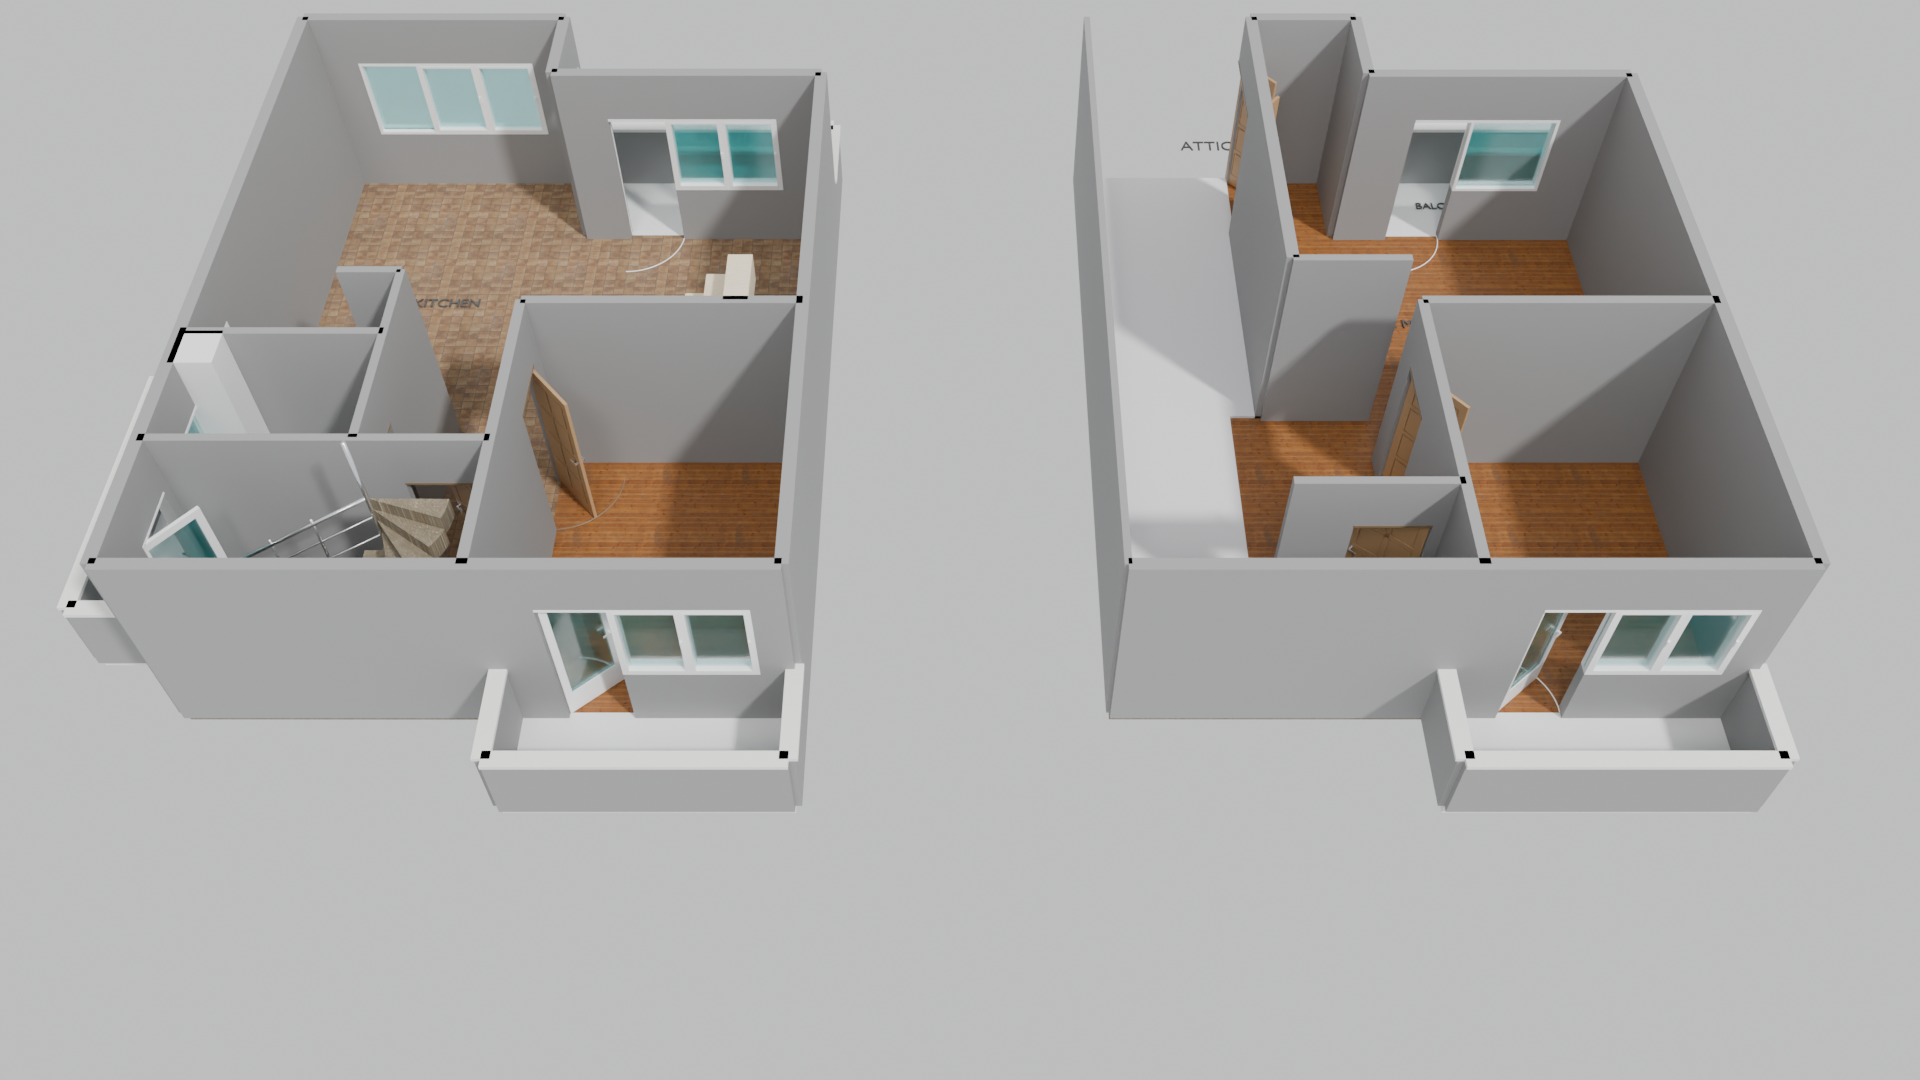
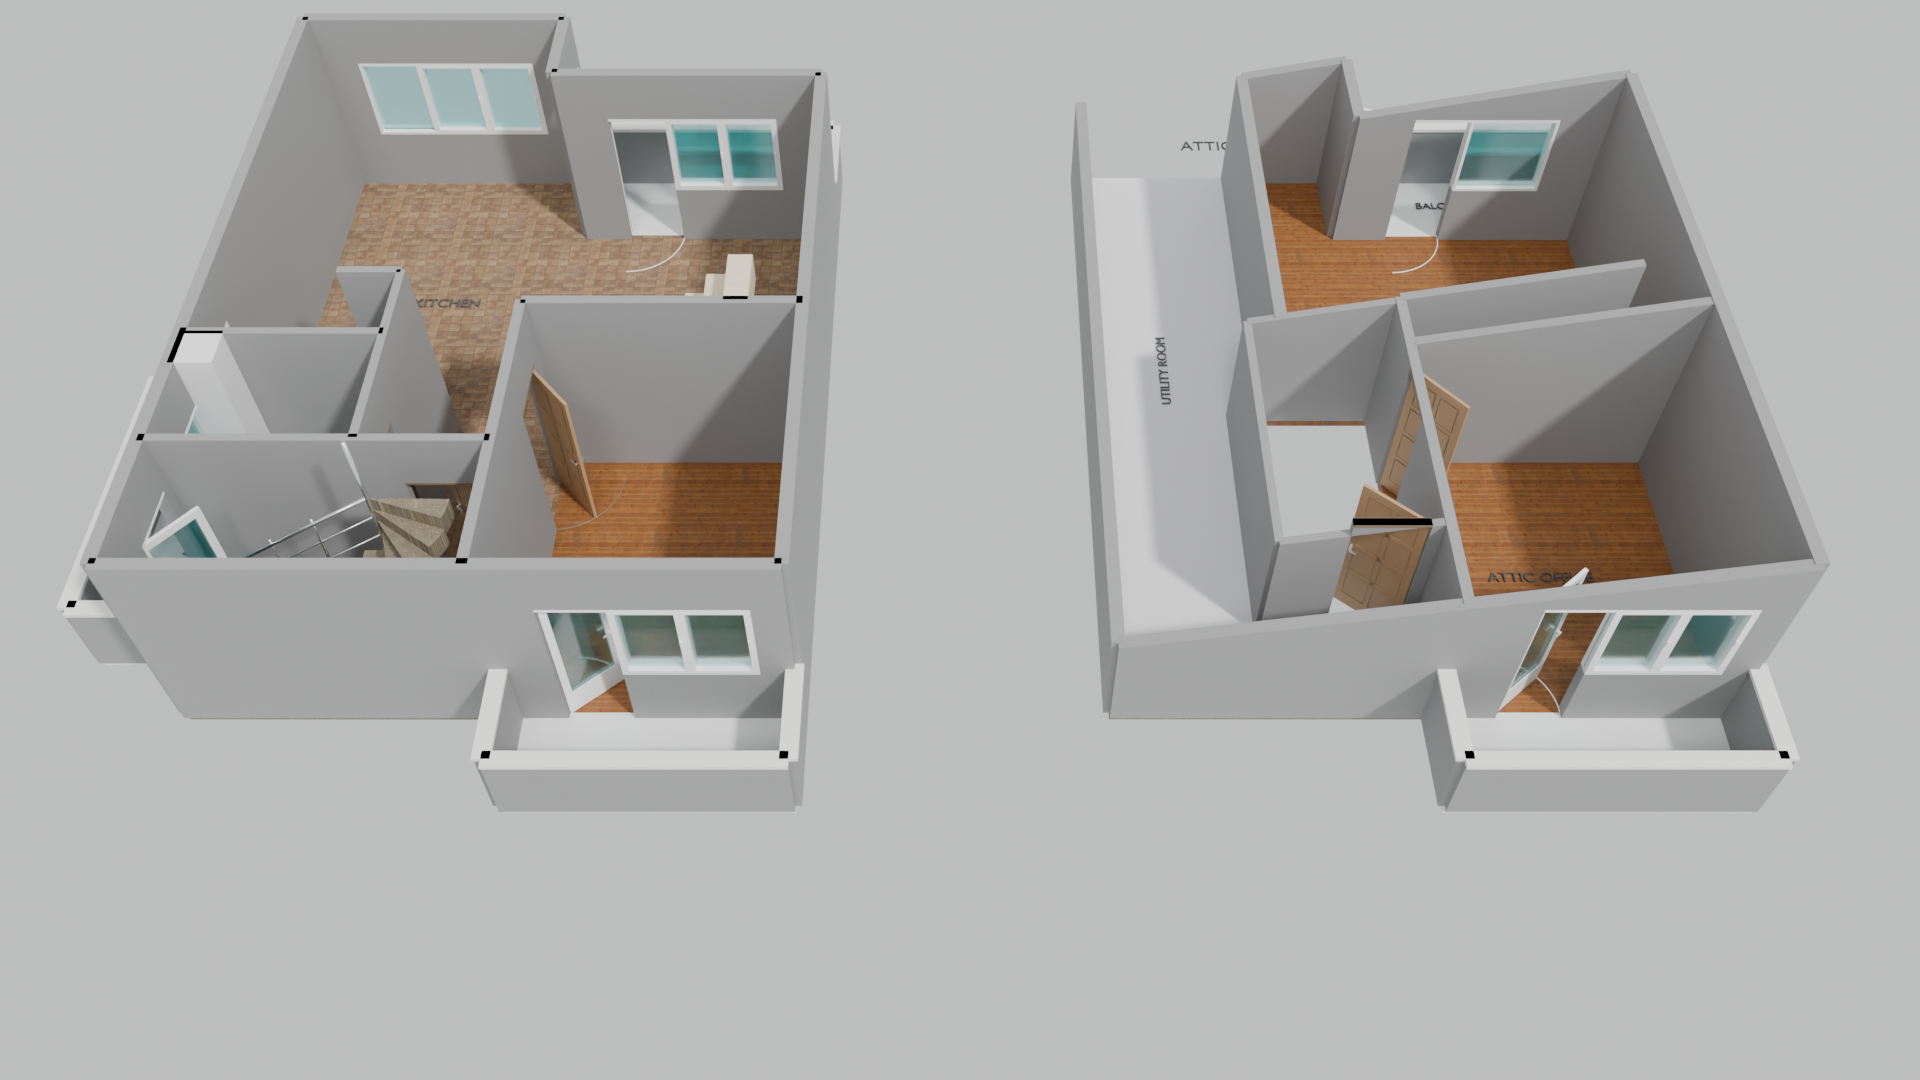
v8 markovo

Changed region(s): [[0.5625, 0.0, 0.9375, 0.6111]]

diff --git a/scripts/cad_markovo/floor4.py b/scripts/cad_markovo/floor4.py
@@ -2,9 +2,9 @@
 Floor 4 (Attic Level) Plan Definition and Architectural Specification.
 
 Finishes:
-- Attic Rooms (Bedroom, Main Room, Circulation): Parallel Parquet Light Coniferous Wood
-- Unusable Area: Cross-Hatched Roof Void
-- Stairs & Landing: Cement Mosaic ("мозайка")
+- Attic Rooms (Bedroom, Office, Circulation): Parallel Parquet Light Coniferous Wood
+- Utility Room: Cross-Hatched Roof Void
+- Stairs & Landing: Cement Mosaic / Architectural Concrete
 - Windows & Exterior Balcony Doors: White uPVC
 - Terraces: Solid walls matching building wall material + Stone Coping (No glass)
 """
@@ -15,12 +15,22 @@ from .config import SLAB_THICK, get_floor_4_offset
 from .builder import FloorPlanBuilder
 
 
+def attic_z(x: float) -> float:
+    """
+    Computes wall top height (in meters) following the roof pitch.
+    Party wall (x=700): 2.80 m (full ceiling height).
+    Outer facade knee wall (x=0): 1.40 m.
+    """
+    t = max(0.0, min(1.0, x / 700.0))
+    return round(1.40 + 1.40 * t, 3)
+
+
 def build_floor_4(
     mats: Dict[str, bpy.types.Material],
     offset=None,
     stack: bool = None,
 ) -> FloorPlanBuilder:
-    """Builds Floor 4 - Attic Level with all architectural elements and requested materials."""
+    """Builds Floor 4 - Attic Level with raked walls and specified room layout."""
     if offset is None:
         offset = get_floor_4_offset(stack)
 
@@ -29,40 +39,41 @@ def build_floor_4(
     # --------------------------------------------------------------------------
     # 1. Usable Attic Rooms with Light Coniferous Wood Parallel Parquet
     # --------------------------------------------------------------------------
-    # Attic Bedroom: Light Coniferous Wood Parallel Parquet
+    # Attic Office (formerly Attic Bedroom / Attic Room)
     f4.add_room(
-        name="Attic_Bedroom",
+        name="Attic_Office",
         poly_2d=[(360, 120), (700, 120), (700, 500), (360, 500)],
         mat_key="parquet_light_wood",
     )
 
-    # Attic Main Room: Light Coniferous Wood Parallel Parquet
+    # Attic Bedroom (formerly Attic Main Room)
+    # Decomposed into 3 convex quads leaving [377, 637] x [500, 575] open for the stairs
     f4.add_room(
-        name="Attic_Main_Room",
-        poly_2d=[
-            (360, 500), (700, 500), (700, 918), (360, 918),
-            (360, 1040), (220, 1040), (220, 570), (360, 570),
-        ],
+        name="Attic_Bedroom_Main",
+        poly_2d=[(360, 575), (700, 575), (700, 918), (360, 918)],
+        mat_key="parquet_light_wood",
+    )
+    f4.add_room(
+        name="Attic_Bedroom_West",
+        poly_2d=[(220, 570), (360, 570), (360, 1040), (220, 1040)],
+        mat_key="parquet_light_wood",
+    )
+    f4.add_room(
+        name="Attic_Bedroom_Stair_Landing",
+        poly_2d=[(637, 500), (700, 500), (700, 575), (637, 575)],
         mat_key="parquet_light_wood",
     )
 
-    # Attic Hallway & Landing: Light Coniferous Wood Parallel Parquet
-    f4.add_room(
-        name="Attic_Hallway",
-        poly_2d=[(180, 210), (360, 210), (360, 570), (220, 570), (180, 570)],
-        mat_key="parquet_light_wood",
-    )
-
-    # Stairwell Landing: Architectural Concrete (Poly Haven concrete_floor_01)
+    # Stair Landing (where main stairs enter - concrete floor, NO TILES)
     f4.add_room(
         name="Stair_Landing",
         poly_2d=[(0, 120), (360, 120), (360, 210), (0, 210)],
         mat_key="concrete_floor",
     )
 
-    # Roof Void / Unusable Area
+    # Utility Room under sloped ceiling (void finish, NOT connected to rooms, NO TILES)
     f4.add_room(
-        name="Roof_Void_Area",
+        name="Attic_Utility_Room",
         poly_2d=[(0, 210), (0, 1040), (220, 1040), (220, 570), (180, 570), (180, 210)],
         mat_key="void",
         z_bottom=-SLAB_THICK,
@@ -72,83 +83,89 @@ def build_floor_4(
     # --------------------------------------------------------------------------
     # 2. Terraces: Solid Parapet Wall (Wall Material) + Terrace Coping (No Glass)
     # --------------------------------------------------------------------------
-    f4.add_terrace("Attic_Main_Balcony", 360, 918, 340, 122, open_edges=("N", "E"))
-    f4.add_terrace("Attic_Bedroom_Balcony", 360, 0, 340, 120, open_edges=("S", "E", "W"))
+    f4.add_terrace("Attic_Bedroom_Balcony", 360, 918, 340, 122, open_edges=("N", "E"))
+    f4.add_terrace("Attic_Office_Balcony", 360, 0, 340, 120, open_edges=("S", "E", "W"))
 
     # --------------------------------------------------------------------------
-    # 3. Structural & Internal Walls
+    # 3. Structural & Internal Walls with Raked Tops Indicating Roof Slope
     # --------------------------------------------------------------------------
-    f4.add_wall(220, 1040, 360, 1040, 15, id="wall_attic_main_kitchen_side", room="Attic_Main_Room")
-    f4.add_wall(360, 1040, 360, 918, 15, id="wall_attic_balcony_divider", room="Attic_Main_Room")
-    f4.add_wall(360, 918, 700, 918, 15, id="wall_attic_main_balcony", room="Attic_Main_Room")
-    f4.add_wall(700, 918, 700, 120, 15, id="wall_attic_party_side", room="Attic_Main_Room")
-    f4.add_wall(220, 1040, 220, 570, 15, id="wall_attic_main_330", room="Attic_Main_Room")
-    f4.add_wall(220, 570, 360, 570, 10, id="wall_attic_hallway_divider", room="Attic_Hallway")
-    f4.add_wall(360, 500, 700, 500, 12, id="wall_attic_bedroom_divider", room="Attic_Bedroom")
-    f4.add_wall(360, 500, 360, 120, 12, id="wall_attic_bedroom_hallway", room="Attic_Bedroom")
-    f4.add_wall(360, 120, 700, 120, 15, id="wall_attic_bedroom_balcony", room="Attic_Bedroom")
-    f4.add_wall(0, 120, 360, 120, 15, id="wall_stairwell_landing_outer", room="Stair_Landing")
-    f4.add_wall(0, 1040, 0, 120, 8, id="wall_roof_void_perimeter", room="Roof_Void_Area")
-    f4.add_wall(180, 230, 360, 230, 10, id="wall_stairwell_landing_partition", room="Stair_Landing")
+    # Attic Bedroom walls
+    f4.add_wall(220, 1040, 360, 1040, 15, z_top=(attic_z(220), attic_z(360)), id="wall_attic_bedroom_kitchen_side", room="Attic_Bedroom")
+    f4.add_wall(360, 1040, 360, 918, 15, z_top=attic_z(360), id="wall_attic_balcony_divider", room="Attic_Bedroom")
+    f4.add_wall(360, 918, 700, 918, 15, z_top=(attic_z(360), attic_z(700)), id="wall_attic_bedroom_balcony", room="Attic_Bedroom")
+    f4.add_wall(700, 918, 700, 120, 15, z_top=attic_z(700), id="wall_attic_party_side", room="Attic_Bedroom")
+    # Wall along x=220 separating bedroom from utility room (solid, NO doors)
+    f4.add_wall(220, 1040, 220, 570, 15, z_top=attic_z(220), id="wall_attic_main_330", room="Attic_Bedroom")
+
+    # Wall separating 4th floor hallway and the Attic Bedroom (y=570, x=220..360)
+    f4.add_wall(220, 570, 360, 570, 10, z_top=(attic_z(220), attic_z(360)), id="wall_attic_hallway_bedroom_divider", room="Attic_Hallway")
+
+    # Walls closing hallway from utility room
+    f4.add_wall(180, 570, 220, 570, 10, z_top=(attic_z(180), attic_z(220)), id="wall_attic_hallway_utility_divider", room="Attic_Hallway")
+    f4.add_wall(180, 230, 180, 570, 10, z_top=attic_z(180), id="wall_attic_utility_hallway_divider", room="Attic_Hallway")
+
+    # Wall closing hallway from stairs & private bedroom
+    f4.add_wall(360, 500, 360, 575, 12, z_top=attic_z(360), id="wall_attic_hallway_stair_closure", room="Attic_Bedroom")
+
+    # Wall behind the open stairs (closing the stair opening from the Attic Bedroom)
+    f4.add_wall(360, 575, 637, 575, 12, z_top=(attic_z(360), attic_z(637)), id="wall_attic_stairs_back", room="Attic_Bedroom")
+
+    # Attic Office divider & perimeter walls
+    f4.add_wall(360, 500, 700, 500, 12, z_top=(attic_z(360), attic_z(700)), id="wall_attic_office_bedroom_divider", room="Attic_Office")
+    f4.add_wall(360, 500, 360, 120, 12, z_top=attic_z(360), id="wall_attic_office_hallway", room="Attic_Office")
+    f4.add_wall(360, 120, 700, 120, 15, z_top=(attic_z(360), attic_z(700)), id="wall_attic_office_balcony", room="Attic_Office")
+
+    # Stair Landing outer wall & partition
+    f4.add_wall(0, 120, 360, 120, 15, z_top=(attic_z(0), attic_z(360)), id="wall_stairwell_landing_outer", room="Stair_Landing")
+    f4.add_wall(180, 230, 360, 230, 10, z_top=(attic_z(180), attic_z(360)), id="wall_stairwell_landing_partition", room="Stair_Landing")
+
+    # Outer perimeter knee wall along x=0
+    f4.add_wall(0, 1040, 0, 120, 15, z_top=attic_z(0), id="wall_roof_void_perimeter", room="Attic_Utility_Room")
 
     # --------------------------------------------------------------------------
     # 4. Windows & Glazed Assemblies (White uPVC Frames & Mullions)
     # --------------------------------------------------------------------------
-    # Attic Main Room Balcony assembly
+    # Attic Bedroom Balcony assembly
     f4.add_window(
         434, 918, 626, 918,
         label="192",
-        id="attic_main_window",
-        room="Attic_Main_Room",
-    )
-    f4.add_door(
-        434, 918, 75, 270, 360, 0,
-        is_exterior=True,
-        id="attic_main_balcony_door",
-        room="Attic_Main_Room",
-    )
-
-    # Attic Bedroom Balcony assembly
-    f4.add_window(
-        437, 120, 662, 120,
-        label="225",
         id="attic_bedroom_window",
         room="Attic_Bedroom",
     )
     f4.add_door(
-        437, 120, 75, 0, 90, 0,
+        434, 918, 75, 270, 360, 0,
         is_exterior=True,
         id="attic_bedroom_balcony_door",
         room="Attic_Bedroom",
     )
 
-    # --------------------------------------------------------------------------
-    # 5. Internal Doors (Wood Leaves) & Utility Doors
-    # --------------------------------------------------------------------------
-    # 120 cm Double Utility Door on 330 wall (x=220, y=920..1040)
-    f4.add_door(
-        220, 1040, 60, 270, 360, 270,
-        thickness=15,
-        is_exterior=False,
-        id="attic_utility_door_left",
-        room="Attic_Main_Room",
+    # Attic Office Balcony assembly
+    f4.add_window(
+        437, 120, 662, 120,
+        label="225",
+        id="attic_office_window",
+        room="Attic_Office",
     )
     f4.add_door(
-        220, 920, 60, 0, 90, 90,
-        thickness=15,
-        is_exterior=False,
-        id="attic_utility_door_right",
-        room="Attic_Main_Room",
+        437, 120, 75, 0, 90, 0,
+        is_exterior=True,
+        id="attic_office_balcony_door",
+        room="Attic_Office",
     )
 
-    # Attic Bedroom Door & Main Stair Landing Door
+    # --------------------------------------------------------------------------
+    # 5. Internal Doors (Wood Leaves)
+    # --------------------------------------------------------------------------
+    # Attic Office Door from Hallway
     f4.add_door(
         360, 460, 80, 270, 360, 270,
         thickness=12,
         is_exterior=False,
-        id="attic_bedroom_door",
-        room="Attic_Bedroom",
+        id="attic_office_door",
+        room="Attic_Office",
     )
+
+    # Main Stair Landing Door into Attic Hallway
     f4.add_door(
         340, 230, 85, 90, 180, 180,
         thickness=10,
@@ -161,10 +178,10 @@ def build_floor_4(
     # 6. Architectural Room Labels
     # --------------------------------------------------------------------------
     f4.add_label("ATTIC FLOOR 4 - UPPER LEVEL", 350, 1110, z=0.05, size=28.0)
-    f4.add_label("ROOF VOID / UNUSABLE", 100, 650, size=18.0, rotation_z=90.0)
-    f4.add_label("ATTIC MAIN ROOM", 460, 740)
+    f4.add_label("UTILITY ROOM", 100, 650, z=0.06, size=18.0, rotation_z=90.0)
+    f4.add_label("ATTIC BEDROOM", 460, 740)
     f4.add_label("BALCONY", 530, 980, size=18.0)
-    f4.add_label("ATTIC ROOM / BEDROOM", 530, 310, size=20.0)
+    f4.add_label("ATTIC OFFICE", 530, 310, size=20.0)
     f4.add_label("BALCONY", 530, 60, size=18.0)
 
     f4.build_geometry()

diff --git a/scripts/cad_markovo/builder.py b/scripts/cad_markovo/builder.py
@@ -78,6 +78,7 @@ class FloorPlanBuilder:
         x2: float,
         y2: float,
         thickness: float = 15.0,
+        z_top=WALL_HEIGHT,
         id: str = None,
         room: str = None,
     ):
@@ -86,6 +87,7 @@ class FloorPlanBuilder:
             "x1": float(x1), "y1": float(y1),
             "x2": float(x2), "y2": float(y2),
             "thickness": float(thickness),
+            "z_top": z_top,
             "id": id,
             "room": room,
         })
@@ -296,6 +298,8 @@ class FloorPlanBuilder:
                         wall_wins.append((a, b, win.get("sill", WIN_SILL), win.get("top", WIN_TOP)))
                         cut_points.update([a, b])
 
+            wall_zt = w.get("z_top", WALL_HEIGHT)
+
             sorted_pts = sorted(cut_points)
             for s_idx in range(len(sorted_pts) - 1):
                 a, b = sorted_pts[s_idx], sorted_pts[s_idx + 1]
@@ -306,6 +310,16 @@ class FloorPlanBuilder:
                 sx2, sy2 = x1 + ux * b, y1 + uy * b
                 quad = wall_quad(sx1, sy1, sx2, sy2, thick)
 
+                if isinstance(wall_zt, (list, tuple)):
+                    zt_start, zt_end = wall_zt[0], wall_zt[1]
+                    ta = a / L if L > 1e-6 else 0.0
+                    tb = b / L if L > 1e-6 else 1.0
+                    za = zt_start + ta * (zt_end - zt_start)
+                    zb = zt_start + tb * (zt_end - zt_start)
+                    quad_zt = [za, zb, zb, za]
+                else:
+                    quad_zt = wall_zt
+
                 has_door = any(da <= mid <= db for da, db in wall_doors)
                 matched_win = next((w_info for w_info in wall_wins if w_info[0] <= mid <= w_info[1]), None)
 
@@ -315,7 +329,7 @@ class FloorPlanBuilder:
                         f"{self.name}_Wall_{w_idx}_LintelD_{s_idx}",
                         quad,
                         DOOR_HEIGHT,
-                        WALL_HEIGHT,
+                        quad_zt,
                         self.mats["wall"],
                         self.col,
                         self.root,
@@ -336,7 +350,7 @@ class FloorPlanBuilder:
                         f"{self.name}_Wall_{w_idx}_LintelW_{s_idx}",
                         quad,
                         w_top,
-                        WALL_HEIGHT,
+                        quad_zt,
                         self.mats["wall"],
                         self.col,
                         self.root,
@@ -347,7 +361,7 @@ class FloorPlanBuilder:
                         f"{self.name}_Wall_{w_idx}_Solid_{s_idx}",
                         quad,
                         0.0,
-                        WALL_HEIGHT,
+                        quad_zt,
                         self.mats["wall"],
                         self.col,
                         self.root,

diff --git a/scripts/cad_markovo/geometry.py b/scripts/cad_markovo/geometry.py
@@ -65,8 +65,11 @@ def create_prism_from_quad(
     mesh = bpy.data.meshes.new(name)
     bm = bmesh.new()
 
-    verts_btm = [bm.verts.new((x * CM, y * CM, z_bottom)) for x, y in corners_2d]
-    verts_top = [bm.verts.new((x * CM, y * CM, z_top)) for x, y in corners_2d]
+    z_b = z_bottom if isinstance(z_bottom, (list, tuple)) else [z_bottom] * 4
+    z_t = z_top if isinstance(z_top, (list, tuple)) else [z_top] * 4
+
+    verts_btm = [bm.verts.new((x * CM, y * CM, z_b[i])) for i, (x, y) in enumerate(corners_2d)]
+    verts_top = [bm.verts.new((x * CM, y * CM, z_t[i])) for i, (x, y) in enumerate(corners_2d)]
 
     bm.faces.new(verts_btm[::-1])  # Normal points downwards
     bm.faces.new(verts_top)        # Normal points upwards
